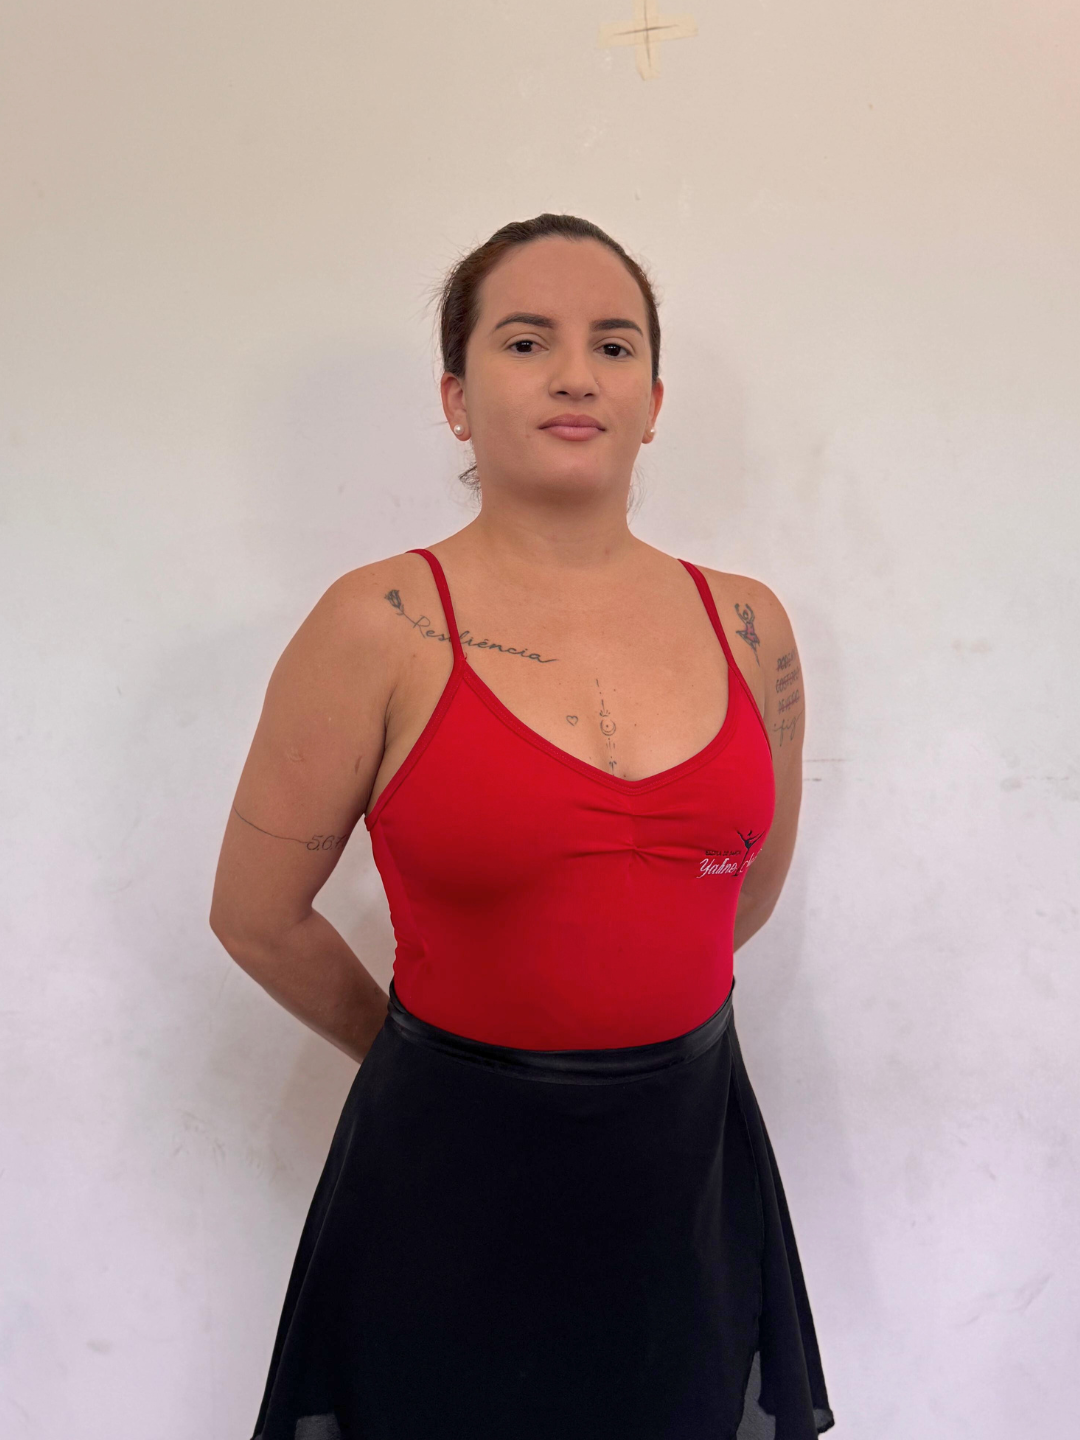
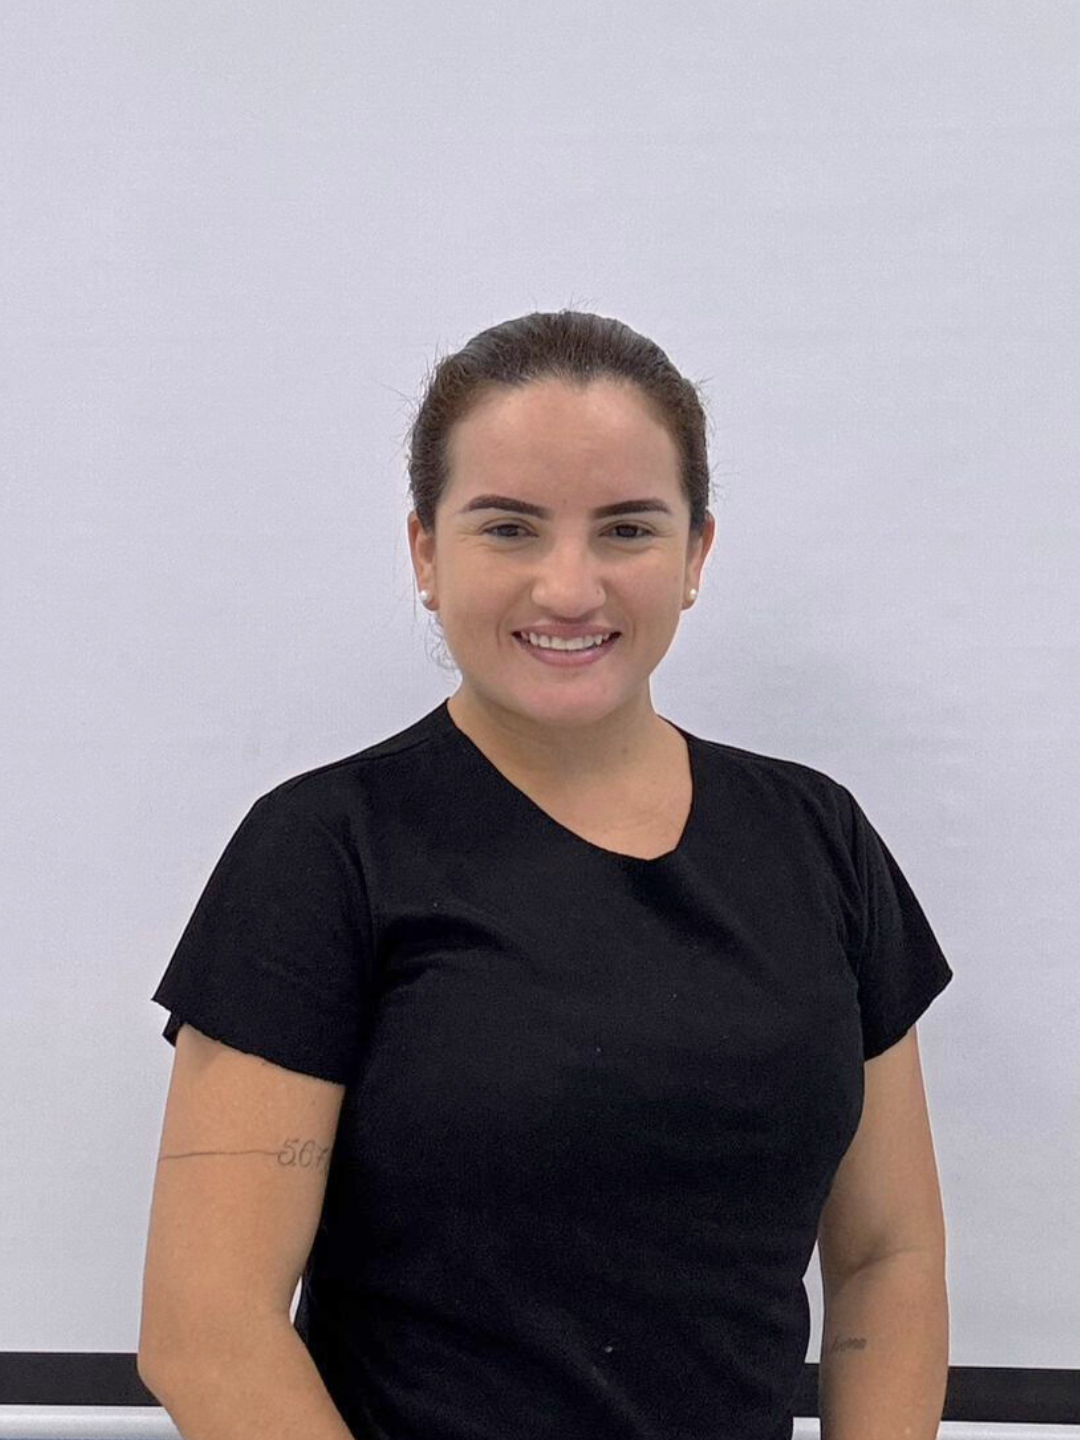
feat&fix: Google Analytics e pequenas correçõesD

diff --git a/src/app/(site)/page.tsx b/src/app/(site)/page.tsx
@@ -56,7 +56,6 @@ import zazu_elenco from "@/assets/images/elenco/zazu.png"
 import antilopes_elenco from "@/assets/images/elenco/antilopes.png"
 import flamingos_elenco from "@/assets/images/elenco/flamingos.png"
 import gnus_elenco from "@/assets/images/elenco/gnus.png"
-import hienas_quarteto_elenco from "@/assets/images/elenco/hienas_quarteto.png"
 import hienas_elenco from "@/assets/images/elenco/hienas.png"
 import leoas_criancas_elenco from "@/assets/images/elenco/leoas_criancas.png"
 import leoas_jovens_elenco from "@/assets/images/elenco/leoas_jovens.png"
@@ -72,7 +71,10 @@ import govce from "@/assets/images/logos/govce.png"
 import secult from "@/assets/images/logos/secult.png"
 import theatro from "@/assets/images/logos/theatro.png"
 import idm from "@/assets/images/logos/idm-branco.png"
-import koten from "@/assets/images/logos/koten.png"
+import konten from "@/assets/images/logos/konten.png"
+import konten_limpeza from "@/assets/images/logos/konten_limpeza.png"
+import gutrep from "@/assets/images/logos/gut.rep.png"
+import beleza_nossa from "@/assets/images/logos/beleza_nossa_branco.png"
 
 import Audio from "@/components/Audio";
 
@@ -82,6 +84,8 @@ const berlin = localFont({ src: '../../assets/fonts/BerlinSansFB-Regular.ttf' })
 export default function Home() {
   return (
     <main className={`flex flex-col ${berlin.className} lg:pt-20 md:pt-20 max-md:pt-20 sm:pt-24 max-sm:pt-24`}>
+
+
       <section id="inicio">
         <figure className="lg:flex md:flex max-md:flex sm:hidden max-sm:hidden flex-col justify-center w-full bg-bloody-red-600 max-md:max-w-full">
           <Image
@@ -230,18 +234,18 @@ export default function Home() {
               alt="Natália Vasconcelos como Shenzi"
             />
             <Actor
-              actorImage={ed_elenco}
-              characterImage={ed}
-              name="Kátia Lemos"
-              role="Ed"
-              alt="Kátia Lemos como Ed"
-            />
-            <Actor
               actorImage={banzai_elenco}
               characterImage={banzai}
               name="Luís Eduardo"
               role="Banzai"
               alt="Luís Eduardo como Banzai"
+            />
+            <Actor
+              actorImage={ed_elenco}
+              characterImage={ed}
+              name="Kátia Lemos"
+              role="Ed"
+              alt="Kátia Lemos como Ed"
             />
             <Actor
               actorImage={bill_elenco}
@@ -303,8 +307,8 @@ export default function Home() {
 
             <Group
               characterImage={hienas}
-              actorsImage={hienas_quarteto_elenco}
-              name="Hienas"
+              actorsImage={hienas_elenco}
+              name="Hienas (Se preparem)"
               role=""
               alt="Grupo dos Hienas"
             />
@@ -460,7 +464,7 @@ export default function Home() {
         bgColor="bg-strong-wood-700"
         textColor="text-lemon-yellow-100"
       >
-        <div className="flex gap-8 lg:flex-row max-lg:flex-row max-sm:flex-col sm:flex-col items-center justify-center">
+        <div className="flex gap-8 lg:flex-row max-lg:flex-row max-sm:flex-col sm:flex-col items-center justify-center max-md:max-w-full lg:max-w-4xl flex-wrap">
           <Image src={idm}
             height={540}
             width={540}
@@ -491,7 +495,25 @@ export default function Home() {
             alt=""
             className="w-[8rem] h-[8rem]"
           />
-          <Image src={koten}
+          <Image src={konten}
+            height={540}
+            width={540}
+            alt=""
+            className="w-[6rem] h-[6rem]"
+          />
+          <Image src={gutrep}
+            height={540}
+            width={540}
+            alt=""
+            className="w-[8rem] h-[8rem]"
+          />
+          <Image src={beleza_nossa}
+            height={540}
+            width={540}
+            alt=""
+            className="w-[10rem] h-[10rem]"
+          />
+          <Image src={konten_limpeza}
             height={540}
             width={540}
             alt=""
@@ -522,6 +544,10 @@ export default function Home() {
               <p>Yaline Sabóia</p>
             </div>
             <div>
+              <span className="font-bold text-lg">Direção Artística:</span>
+              <p>Yaline Sabóia</p>
+            </div>
+            <div>
               <span className="font-bold text-lg">Direção Musical:</span>
               <p>Luana Gabriel</p>
             </div>
@@ -535,13 +561,37 @@ export default function Home() {
               <p>Yaline Sabóia</p>
               <p>Deanira Sabóia</p>
               <p>Jonas Jorge</p>
-              <p>Giovana</p>
-              <p>Jamyle</p>
+              <p>Giovana Santos</p>
+              <p>Jamyle Oliveira</p>
+            </div>
+
+            <div>
+              <span className="font-bold text-lg">Administrativo:</span>
+              <p>Yasmine Sabóia</p>
+            </div>
+
+            <div>
+              <span className="font-bold text-lg">Secretaria:</span>
+              <p>Vonikiany Lemos</p>
             </div>
 
             <div>
               <span className="font-bold text-lg">Iluminação:</span>
               <p>Jorge Brasil</p>
+            </div>
+
+            <div>
+              <span className="font-bold text-lg">Figurinista:</span>
+              <p>Natália Vasconcelos</p>
+            </div>
+
+            <div>
+              <span className="font-bold text-lg">Figurinos:</span>
+              <p>Meu Bem Dancing</p>
+              <p>D&lsquo;Ballet</p>
+              <p>Diana</p>
+              <p>Natália Vasconcelos</p>
+              <p>Zeneida</p>
             </div>
           </div>
 
@@ -551,21 +601,30 @@ export default function Home() {
           </div> */}
 
           <div className="flex flex-col justify-between gap-4">
-            <div>
-              <span className="font-bold text-lg">Figurinos:</span>
-              <p>Meu Bem Dancing</p>
-              <p>Natália Vasconcelos</p>
-              <p>Zeneida</p>
-            </div>
             {/* <div> */}
             {/* <span className="font-bold text-lg">Cenografia:</span> */}
             {/* <p> </p> */}
             {/* </div> */}
-            
+
+            <div>
+              <span className="font-bold text-lg">Equipe Técnica:</span>
+              <p>Theatro José de Alencar</p>
+            </div>
+
+            <div>
+              <span className="font-bold text-lg">Produtor Sonoplasta:</span>
+              <p>RMIX Studio</p>
+            </div>
+
             <div>
               <span className="font-bold text-lg">Maquiagem:</span>
-              <p>Natália Vasconcelos, Ana Ruth...</p>
+              <p>Natália Vasconcelos</p>
+              <p>Ana Ruth</p>
+              <p>Deanira Sabóia</p>
+              <p>Luana Gabriel</p>
+              <p>Roberta Santos</p>
             </div>
+
             <div>
               <span className="font-bold text-lg">Marketing:</span>
               <p>Ana Letícia Reis e Ana Ruth Ramos</p>
@@ -584,9 +643,21 @@ export default function Home() {
               <p>Pedro Yuri</p>
               <p>Cauan Victor</p>
             </div>
-            {/* <div> */}
-            {/* <p><span className="font-bold text-lg">Patrocinadores: </span> </p> */}
-            {/* </div> */}
+
+            <div>
+              <span className="font-bold text-lg">Apoio: </span>
+              <p>Amanda Maria</p>
+              <p>Instituto Dragão do Mar</p>
+              <p>Theatro José de Alencar</p>
+              <p>Ceará Cultura</p>
+              <p>Secretaria da Cultura do Estado do Ceará</p>
+              <p>Associação das Academias de dança do Ceará</p>
+              <p>Konten Contabilidade</p>
+              <p>Gut.Rep</p>
+              <p>Konten Contabilidade</p>
+              <p>Jôsi Beleza Nossa</p>
+              <p>Konten Limpeza</p>
+            </div>
           </div>
 
           <div>

diff --git a/src/components/Footer.tsx b/src/components/Footer.tsx
@@ -3,6 +3,7 @@
 import { InstagramLogo } from "@phosphor-icons/react/dist/ssr";
 import Image from "next/image";
 import yaline_saboia_logo from "@/assets/images/yaline_saboya.png";
+import ogranderei_logo from "@/assets/images/logos/ogranderei.png";
 import localFont from "next/font/local";
 import { Inter } from "next/font/google";
 
@@ -21,8 +22,8 @@ export default function Footer() {
                 block: 'nearest'
             });
         }
-    }   
-    
+    }
+
     return (
         <footer className="flex flex-col justify-center items-center w-full text-xl sunset-yellow-400 bg-bloody-red-800">
             <article className="flex gap-5 justify-center items-center w-full bg-bloody-red-600">
@@ -48,7 +49,7 @@ export default function Footer() {
                     </div>
 
                     <div className="flex flex-row gap-[4.5rem] w-full lg:justify-between max-md:justify-between md:justify-between items-center sm:justify-center max-sm:justify-center">
-                        <aside className="flex flex-col gap-3 justify-center items-center text-3xl text-center text-sunset-yellow-400">
+                        <aside className="flex flex-col gap-8 justify-center items-center text-3xl text-center text-sunset-yellow-400">
                             <Image
                                 src={yaline_saboia_logo}
                                 className="w-40 max-md:w-24"
@@ -56,7 +57,14 @@ export default function Footer() {
                                 height={106}
                                 alt="Logo Yaline Sabóia"
                             />
-                            <h3 className={`${berlin.className}`}>O Grande Rei</h3>
+                            {/* <h3 className={`${berlin.className}`}>O Grande Rei</h3> */}
+                            <Image
+                                src={ogranderei_logo}
+                                className="w-40 max-md:w-24"
+                                width={256}
+                                height={106}
+                                alt="Logo O grande rei"
+                            />
                         </aside>
 
 

diff --git a/src/components/GoogleAnalytics.tsx b/src/components/GoogleAnalytics.tsx
@@ -1,0 +1,18 @@
+import Script from "next/script";
+
+export default function GoogleAnalytics() {
+    return (
+        <>
+            <Script async strategy='lazyOnload' src={`https://www.googletagmanager.com/gtag/js?id=${process.env.NEXT_PUBLIC_MEASUREMENT_ID}`}></Script>
+            <Script id='' strategy='lazyOnload'>
+                {`
+                    window.dataLayer = window.dataLayer || [];
+                    function gtag(){dataLayer.push(arguments);}
+                    gtag('js', new Date());
+
+                    gtag('config', '${process.env.NEXT_PUBLIC_MEASUREMENT_ID}');
+                `}
+            </Script>
+        </>
+    )
+}

diff --git a/src/app/(site)/layout.tsx b/src/app/(site)/layout.tsx
@@ -3,6 +3,7 @@ import { Inter } from "next/font/google";
 import "../globals.css";
 import Header from "@/components/Header";
 import Footer from "@/components/Footer";
+import GoogleAnalytics from "@/components/GoogleAnalytics";
 
 const inter = Inter({ subsets: ["latin"] });
 
@@ -20,6 +21,7 @@ export default function RootLayout({
     <html lang="pt-br">
       <body className={inter.className}>
         <Header />
+        <GoogleAnalytics />
         {children}
         <Footer />
       </body>
